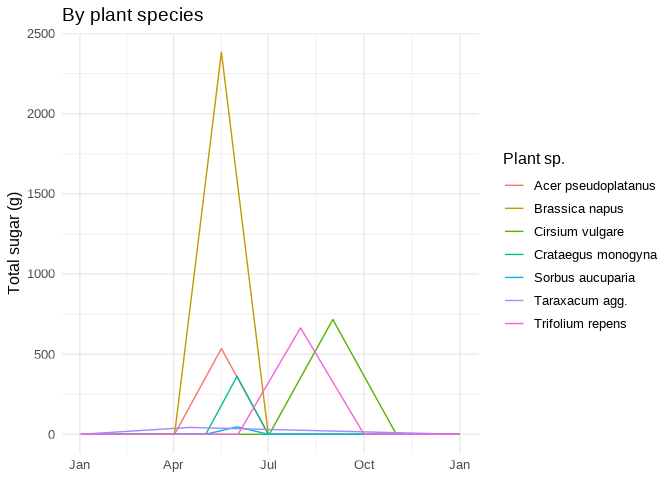
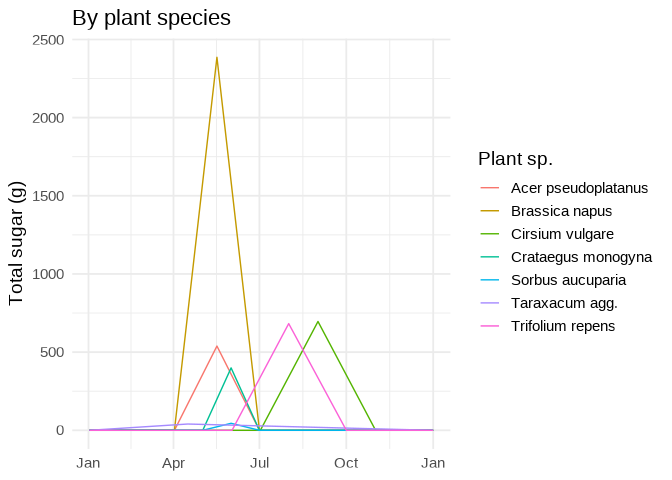
more figure tweaking

diff --git a/README.md b/README.md
@@ -214,7 +214,7 @@ availability using line or area plots.
 
     ggplot(land1_tally_agg, aes(date, total.sugar)) +
       geom_line() +
-      theme_minimal(12) +
+      theme_minimal(14) +
       scale_x_date(date_labels = "%b") +
       labs(x = NULL, y = "Sugar (g)", title = "Aggregate")
 
@@ -222,7 +222,7 @@ availability using line or area plots.
 
     ggplot(land1_tally_class, aes(date, total.sugar, color = class)) +
       geom_line() +
-      theme_minimal(12) +
+      theme_minimal(14) +
       scale_x_date(date_labels = "%b") +
       labs(x = NULL, y = "Total sugar (g)", color = "Habitat class",
            title = "By habitat class") 
@@ -231,7 +231,7 @@ availability using line or area plots.
 
     ggplot(land1_tally_plant, aes(date, total.sugar, color = plant)) +
       geom_line() +
-      theme_minimal(12) +
+      theme_minimal(14) +
       scale_x_date(date_labels = "%b") +
       labs(x = NULL, y = "Total sugar (g)", color = "Plant sp.",
            title = "By plant species")
@@ -240,7 +240,7 @@ availability using line or area plots.
 
     ggplot(land1_tally_morph, aes(date, total.sugar, color = flower.shape)) +
       geom_line() +
-      theme_minimal(12) +
+      theme_minimal(14) +
       scale_x_date(date_labels = "%b") +
       labs(x = NULL, y = "Total sugar (g)", color = "Floral morphotype",
            title = "By flower shape") 
@@ -249,7 +249,7 @@ availability using line or area plots.
 
     ggplot(land1_tally_plant, aes(date, total.sugar, fill = plant)) +
       geom_area(color = "white") +
-      theme_minimal(12) +
+      theme_minimal(14) +
       scale_x_date(date_labels = "%b") +
       scale_fill_viridis_d(option = "inferno", direction = 1) +
       labs(x = NULL, y = "Total sugar (g)", fill = "Plant sp.",
